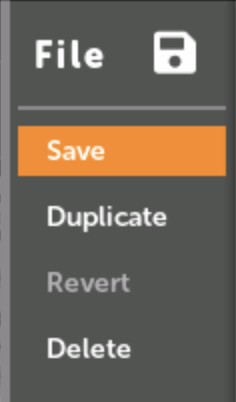
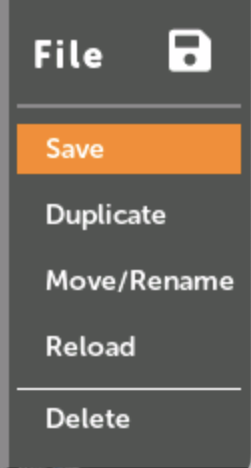
2.0 updates

diff --git a/docs/stylesheets/extra.css b/docs/stylesheets/extra.css
@@ -44,10 +44,10 @@
 
 .half { width: auto; max-height: 240px; }
 
-.img-412 { width: auto; max-height: 412px; }
 .img-550 { width: auto; max-height: 550px; }
 
-.img-472 { width: auto; max-height: 472px; }
+.img-511 { width: auto; max-height: 511px; }
+.img-567 { width: auto; max-height: 567px; }
 .img-630 { width: auto; max-height: 630px; }
 
 .md-typeset .grid.cards>ul>li {

diff --git a/docs/module_patch_settings.md b/docs/module_patch_settings.md
@@ -12,7 +12,7 @@ These menus control how mappings and cables are drawn when viewing modules and t
 
     [![Patch View Gear icon](./img/patch-view-gear-icon.png){ .half }](./img/patch-view-gear-icon.png)
 
--   [![Patch View Settings Menu](./img/patchview-settings.png){ .img-472 }](./img/patchview-settings.png)
+-   [![Patch View Settings Menu](./img/patchview-settings.png){ .img-567 }](./img/patchview-settings.png)
 </div>
 <div class="grid cards" markdown>
 -   __Module View display settings:__
@@ -21,13 +21,33 @@ These menus control how mappings and cables are drawn when viewing modules and t
 
     [![Module Action Menu icon](./img/mv-settings-icon.png){ .half }](./img/mv-settings-icon.png)
 
--    [![Module View Settings Menu](./img/mv-settings-all.png){ .img-412 }](./img/mv-settings-all.png)
+-    [![Module View Settings Menu](./img/mv-settings-all.png){ .img-511 }](./img/mv-settings-all.png)
 
 </div>
 
-### Control Maps
+### Graphics
 
-These options set how control mappings (knob, switch, and button maps) are displayed.
+These options control how graphic screens on modules are displayed. The term
+"graphic screen" is a loose term that refers to any element on the module that's
+drawn dynamically (besides knobs, sliders, buttons, switches, lights, and text
+displays). This may refer to anything from waveform or BPM displays, to static
+portions of the faceplate that the module designer chose to draw with vector
+commands, to text under knobs that may change in different modes.
+
+- __Draw Screens__: toggles whether to draw graphic screens on modules.
+If you have issues with the module responding slowly to the rotary encoder and
+Back button, then try disabling screens or adjusting the Update Rate.
+
+- __Update Rate__: When screens are enabled, you can throttle the frame rate
+with this option. When set to the maximum value (fully to the right), each
+graphic screen in the patch will be updated in turn, one graphic screen per 60Hz refresh.
+Each click of the slider to the left updates screens half as often (i.e. one
+screen per 30Hz refresh, then 15Hz refresh, etc..)
+
+
+### Maps
+
+These options set how control mappings (knob, switch, and button maps) are displayed:
 
 - __Show Control Maps__: toggles whether to hide or show a colored ring around
   controls that are mapped. The color corresponds to the panel knob it's mapped
@@ -38,9 +58,8 @@ These options set how control mappings (knob, switch, and button maps) are displ
 - __Flash When Moved__: Whether to flash the colored ring when its panel knob
   is moved. This can be turned on even if Show Control Maps is off.
 
-### Panel Jack Maps
 
-These options set how jack mappings to the panel are displayed.
+These options set how jack mappings to the panel are displayed:
 
 - __Show Panel Jack Maps__: toggles whether to hide or show a colored circle on 
   jacks that are mapped to the panel. The color corresponds to the panel jack
@@ -49,18 +68,17 @@ These options set how jack mappings to the panel are displayed.
 - __Opacity__: How opaque or transparent to draw the circles. If Opacity is
   more than about 40%, the number of the jack will be drawn inside the circle.
 
-### Always Show Maps
 
-Enabling this option will hide control and jack maps when you are viewing a
-patch while a different patch is playing (or paused).
-This option is disabled if both Show Control Maps and Show Panel Jack Maps are off.
+This option refers to both control mappings and jack mappings:
 
-### Show On All Modules
+- __Always Show Maps__: Enabling this option will hide control and jack maps
+  when you are viewing a patch while a different patch is playing (or paused).
+  This option is disabled if both Show Control Maps and Show Panel Jack Maps
+  are off.
 
-(Patch View only)
-When this option is enabled, maps will be drawn on all modules in the patch.
-When this is disabled, maps will be drawn on only the module that's currently 
-focussed. 
+- __Show on All Modules__: (Patch View only) When this option is enabled, maps
+  will be drawn on all modules in the patch. When this is disabled, maps will
+  be drawn on only the module that's currently focussed. 
 This option is disabled if both Show Control Maps and Show Panel Jack Maps are off.
 
 ### Cables
@@ -91,16 +109,15 @@ This option is disabled if both Show Control Maps and Show Panel Jack Maps are o
 -   [![Patch View Info icon](./img/patchview-info-icon.png){ .half }](./img/patchview-info-icon.png)
 </div>
 <div class="grid cards" markdown>
--   The patch name, description, MIDI polyphony channels (if MIDI notes are mapped) are shown.
+-   The patch name, file name, description, MIDI polyphony channels (if MIDI
+    notes are mapped) are shown.
 
     
 -   [![Patch View Description](./img/patch-description.png){ .half }](./img/patch-description.png)
 </div>
 <div class="grid cards" markdown>
--   Click Edit to edit the patch name or description.
+-   Click Edit to edit the description.
    
-    Note that the patch name can be different than the file name.
-
 -   [![Patch View Description Edit](./img/patch-description-edit.png){ .half }](./img/patch-description-edit.png)
 </div>
 
@@ -113,13 +130,12 @@ This option is disabled if both Show Control Maps and Show Panel Jack Maps are o
 
     The Patch File Menu is opened by clicking the file/disk icon when viewing a patch.
 
-    While focused on the file icon the file name will be shown (note, this may be
-    different than the patch name).
+    While focused on the file icon the file path will be shown.
 
 -   [![Patch View Disk icon](./img/patch-view-file-icon.png){ .half }](./img/patch-view-file-icon.png)
 </div>
 <div class="grid cards" markdown>
--   Save, Duplicate (Save As), Revert, or Delete
+-   Save, Duplicate, Move/Rename, Reload (or Revert), Delete
 
     
 -   [![File Menu](./img/file-menu.png){ .half }](./img/file-menu.png)
@@ -147,20 +163,24 @@ This option is disabled if both Show Control Maps and Show Panel Jack Maps are o
 -   [![Duplicate](./img/duplicate-file.png){ .half }](./img/duplicate-file.png)
 </div>
 <div class="grid cards" markdown>
--   __Revert__: Revert all changes to the patch file
+-   __Revert__ (or __Reload__): Revert all changes to the patch file
   
-    This will re-load the patch file from disk, losing all changes.
-    It cannot be un-done.
+    This will reload the patch file from disk, losing all changes.
+    It cannot be undone.
 
     If you ejected the disk that the patch file lives on, then the patch
     cannot be reverted since the original file cannot be loaded.
+
+    This option will appear as "Reload" when you have not made any modifications
+    to the patch, and "Revert" when you have modified the patch. The resulting
+    action is the same (reloading the file from disk).
 
 </div>
 <div class="grid cards" markdown>
 -   __Delete__: Delete the patch file
   
     This will delete the patch file from disk.
-    It cannot be un-done.
+    It cannot be undone.
 
     If you ejected the disk that the patch file lives on, then the patch
     cannot be reverted since the original file cannot be loaded.

diff --git a/docs/wifi.md b/docs/wifi.md
@@ -191,28 +191,34 @@ just update the MetaModule.
 
 ## Wi-Fi Expander Troubleshooting
 
-- _Cannot get the ESP BLE Provisioning app to see the Wi-Fi Expander module_
+- __Cannot get the ESP BLE Provisioning app to see the Wi-Fi Expander module__
+
     - Did you disable Secure Communication in the app settings?
+
     - Did you erase the prefix text "PROV" and replace it with "4MS"?
     - Did you give the app permission to use the camera?
       Even though the Wi-Fi Expander doesn't have a QR code, the app will
       still not function unless you give it permission to use the camera.
-    - Did you give the app permission to use Bluetooth?
-       - Go to your phone's settings and verify it has Bluetooth and camera permissions
-    - Try resetting the Wi-Fi Expander: 
-       - Hold down the button while powering on. Release the button when it turns red.
-       - Re-provision the Wi-Fi Expander by following the [steps at the top of this page](#connecting-to-a-wi-fi-network-provisioning).
 
+    - Did you give the app permission to use Bluetooth? Go to your phone's
+      settings and verify it has Bluetooth and camera permissions
 
-- _Cannot see my hotspot in the list of Wi-Fi networks_
+    - Try resetting the Wi-Fi Expander by holding down the button while
+      powering on. Release the button when it turns red. Re-provision the Wi-Fi
+      Expander by following the [steps at the top of this
+      page](#connecting-to-a-wi-fi-network-provisioning).
+
+- __Cannot see my hotspot in the list of Wi-Fi networks__
+
     - If you are creating a personal Wi-Fi network (aka "hotspot"),
       then it's possible you will need to run the ESP BLE Provisioning app on a
       different device. The app may not be able to see the hotspot network
       created on the same device that it's running on.
+
     - Make sure you are trying to connect to a 2.4GHz network. Networks that
       are 5GHz will not work with the Wi-Fi Expander.
 
-- _I can't send a patch over Wi-Fi using VCV Rack_
+- __Cannot send a patch over Wi-Fi using VCV Rack__
     - Verify the IP address is correct: compare it carefully with what's
       displayed on the MetaModule Settings > Info page. Don't forget to type
       the "http://" at the start.
@@ -234,11 +240,11 @@ just update the MetaModule.
       .yml patch file to your computer and then looking at how large it is.
 
     - Check your system permissions and see if VCV Rack has permission to access
-      the local network. For MacOS 15, it's in the Systrem Preferences >
+      the local network. For MacOS 15, it's in the System Preferences >
       Privacy&Security > Local Network > VCV Rack (and your preferred web
       browser): [![MacOS permissions for VCV Rack](./img/wifi-macos-permissions.png){ .img-412 }](./img/wifi-macos-permissions.png)
 
-- _My browser won't load the Wi-Fi Expander's page_
+- __My browser won't load the Wi-Fi Expander's page__
     - Your computer must be on the same network as the Wi-Fi expander. 
       Make sure whatever Wi-Fi network you entered into the ESP BLE app is the 
       same as the network your computer is connected to.
@@ -249,13 +255,22 @@ just update the MetaModule.
     - Check your system permissions and see if your web browser has permission to access
       the local network. See image above for an example in MacOS 15.
 
+    - Eject the USB drive and/or microSD card and refresh the browser. If it connects
+      now, then the issue may be that one of your disks contains too many files
+      and the directory transfer is stalling out on the network. This is a known 
+      issue and the workaround is to reduce the number of files on all mounted disks.
 
-- _I don't have a Wi-Fi button on my VCV Rack MetaModule hub_
+
+- __I don't have a Wi-Fi button on my VCV Rack MetaModule hub__
+
     - You need to install the 4ms plugin for VCV Rack v2.0.9 or later
 
-- _Other problems_
+    - Make sure to quit and re-open VCV Rack after upgrading.
+
+- __Other problems__
 
     - Make sure you are using the latest MetaModule firmware and Wi-Fi Expander
       firmware. Updating the MetaModule firmware while the Wi-Fi Expander is
-      connected via the 8-pin cable will update both the MetaModule and the
-     Wi-Fi Expander.
+      connected via the 8-pin cable will update both the MetaModule and the Wi-Fi Expander.
+
+    - Use the latest version of the 4ms VCV Rack plugin.

diff --git a/docs/faq.md b/docs/faq.md
@@ -4,26 +4,35 @@
 
 #### What modules from VCV Rack can I use on the MetaModule?
 
-Currently over 800 modules are available, and the list is growing! 
+You can view the latest list of available modules with our [Module Finder](../modulefinder)
+
+Currently there are over 1400 modules available, and the list is growing!
 
 &nbsp;
 
-Many modules are built into the MetaModule, meaning you can use them right out of the box.
+#### What's the difference between a plugin and a built-in?
 
-You can use most or all of modules from the following built-in brands:
+Some modules are built into the MetaModule, meaning you can use them right out
+of the box. These are called "built-ins". All other modules must be loaded from
+a plugin (see [installing plugins](plugins.md)).
 
- - 4ms <span style="font-size:0.8em">all modules</span>
- - Befaco <span style="font-size:0.8em">all except Midi Thing2</span>
- - HetrickCV <span style="font-size:0.8em">all modules</span>
- - Audible Instruments. <span style="font-size:0.8em">Clones of the
-   Mutable Instruments hardware, known as "Cloned Instruments" on the
-   MetaModule.</span>
- - NonlinearCircuits <span style="font-size:0.8em">all modules</span>
- - Scanner Darkly, aka Eightfold. <span style="font-size:0.8em">SDOrcasHeartV2 module</span>
- - Valley <span style="font-size:0.8em">Plateau, uGraph, and Topograph are built-in. Feline, Interzone, and Amalgam are in the Valley plugin</span>
+The built-ins are all modules from the following brands:
 
+ - 4ms
 
-In addition to these, you can use more modules by downloading and [installing plugins](plugins.md).
+ - Befaco (all except Midi Thing2)
+
+ - HetrickCV
+
+ - Audible Instruments: (Clones of the Mutable Instruments hardware, known as
+   "Cloned Instruments" on the MetaModule)
+
+ - NonlinearCircuits 
+
+ - Scanner Darkly, aka Eightfold. (SDOrcasHeartV2 module)
+
+ - Valley (Plateau, uGraph, Topograph, Feline, Interzone, Amalgam)
+
 
 See [the Plugins page](https://metamodule.4ms.info/plugins) for a full up-to-date list of plugins that are available, and which modules.
 
@@ -39,10 +48,10 @@ the developer or maintainer port it. Or make a request on our
 
 
 Some modules are not well suited for being controlled by physical knobs and
-jacks (and buttons and sliders if you have expanders). These include modules
-that require heavy usage of screens or mouse-clicks, or modules that perform
-"magic tricks" like adding and removing controls or remote-controlling other
-modules. These kinds of modules will need to be re-imagined before they can
-offer a fun and creative user experience on the MetaModule.
+jacks. These include modules that require heavy usage of screens or
+mouse-clicks, or modules that perform "magic tricks" like adding and removing
+controls or remote-controlling other modules. These kinds of modules will need
+to be re-imagined before they can offer a fun and creative user experience on
+the MetaModule.
 
 
